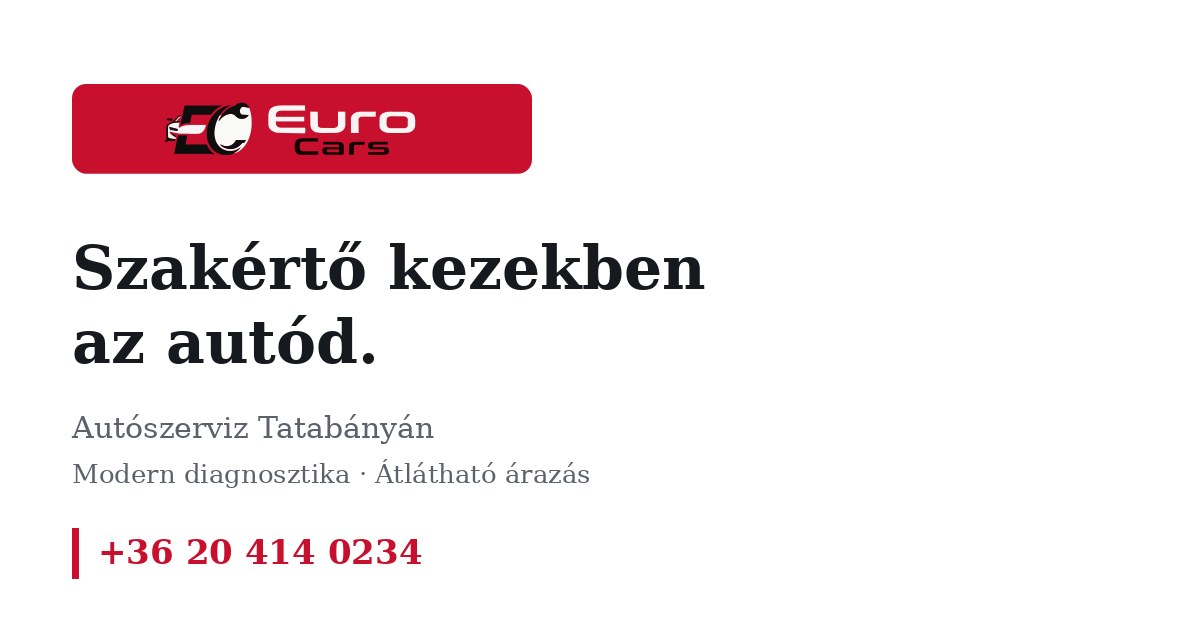
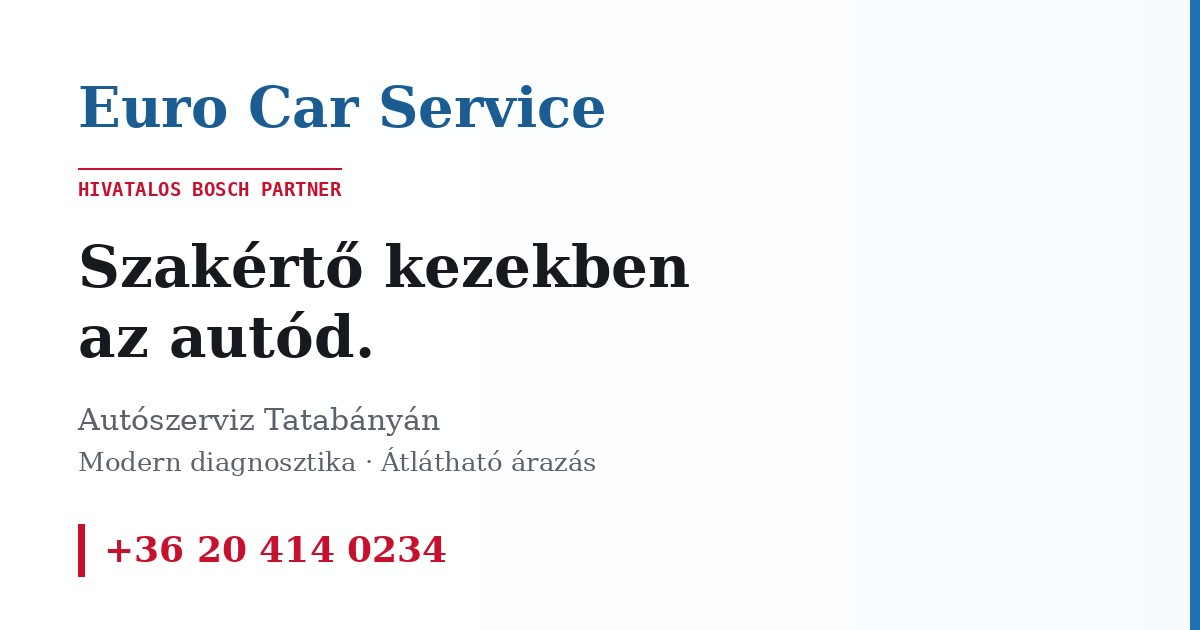
OG preview fix

diff --git a/bosch-service/app/[locale]/layout.tsx b/bosch-service/app/[locale]/layout.tsx
@@ -18,8 +18,17 @@ export async function generateMetadata({
   const { locale: rawLocale } = await params;
   const locale = toLocale(rawLocale);
   const hu = locale !== "en";
+
+  // Until eurocarservice.hu is connected, Netlify's own URL is used, so the
+  // share preview works on the .netlify.app address too. Once the custom
+  // domain is primary, Netlify sets URL to it automatically.
+  const siteUrl =
+    process.env.NEXT_PUBLIC_SITE_URL ??
+    process.env.URL ??
+    "https://eurocarservice.hu";
+
   return {
-    metadataBase: new URL("https://eurocarservice.hu"),
+    metadataBase: new URL(siteUrl),
     title: {
       default: hu
         ? "Euro Car Service — Autószerviz Tatabányán"